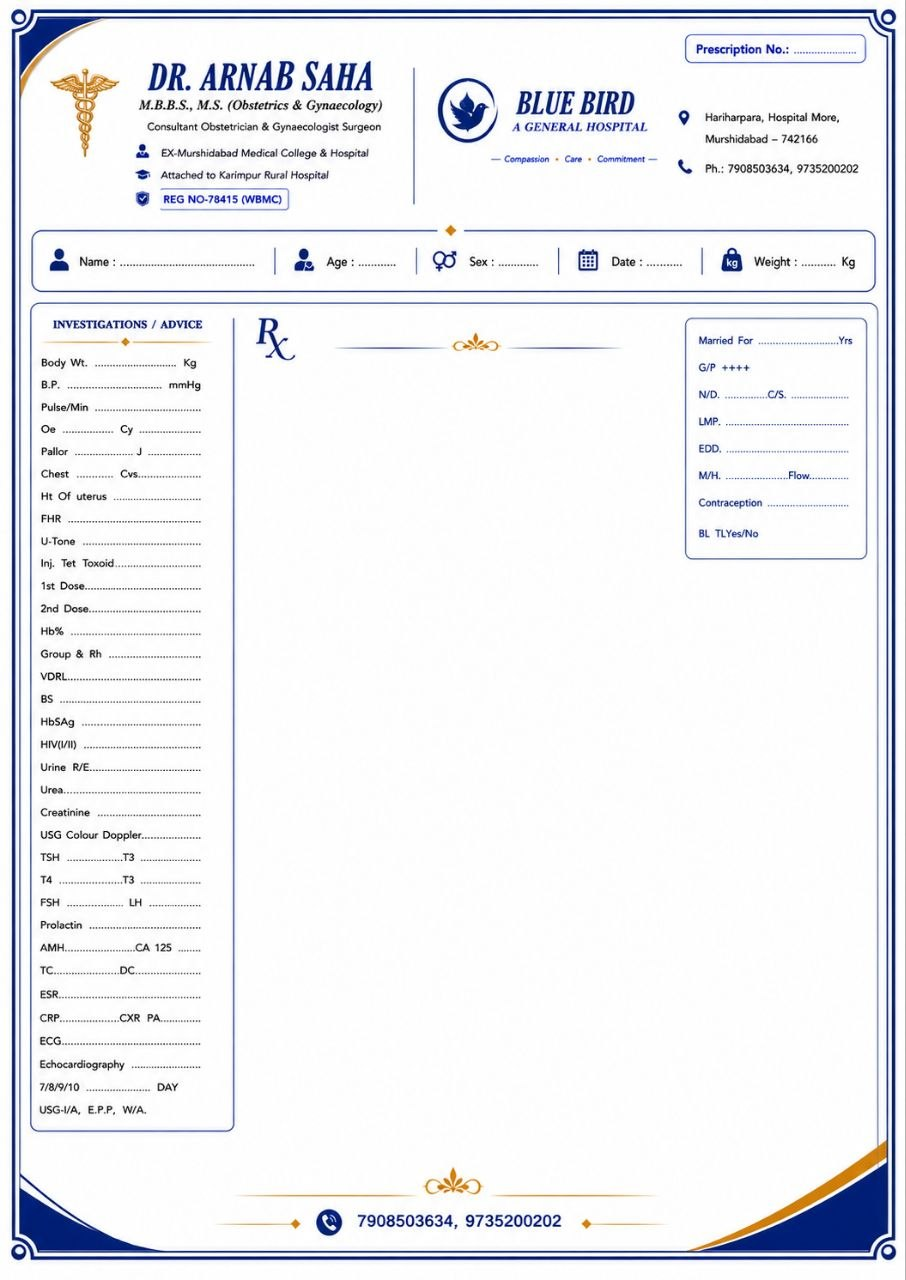
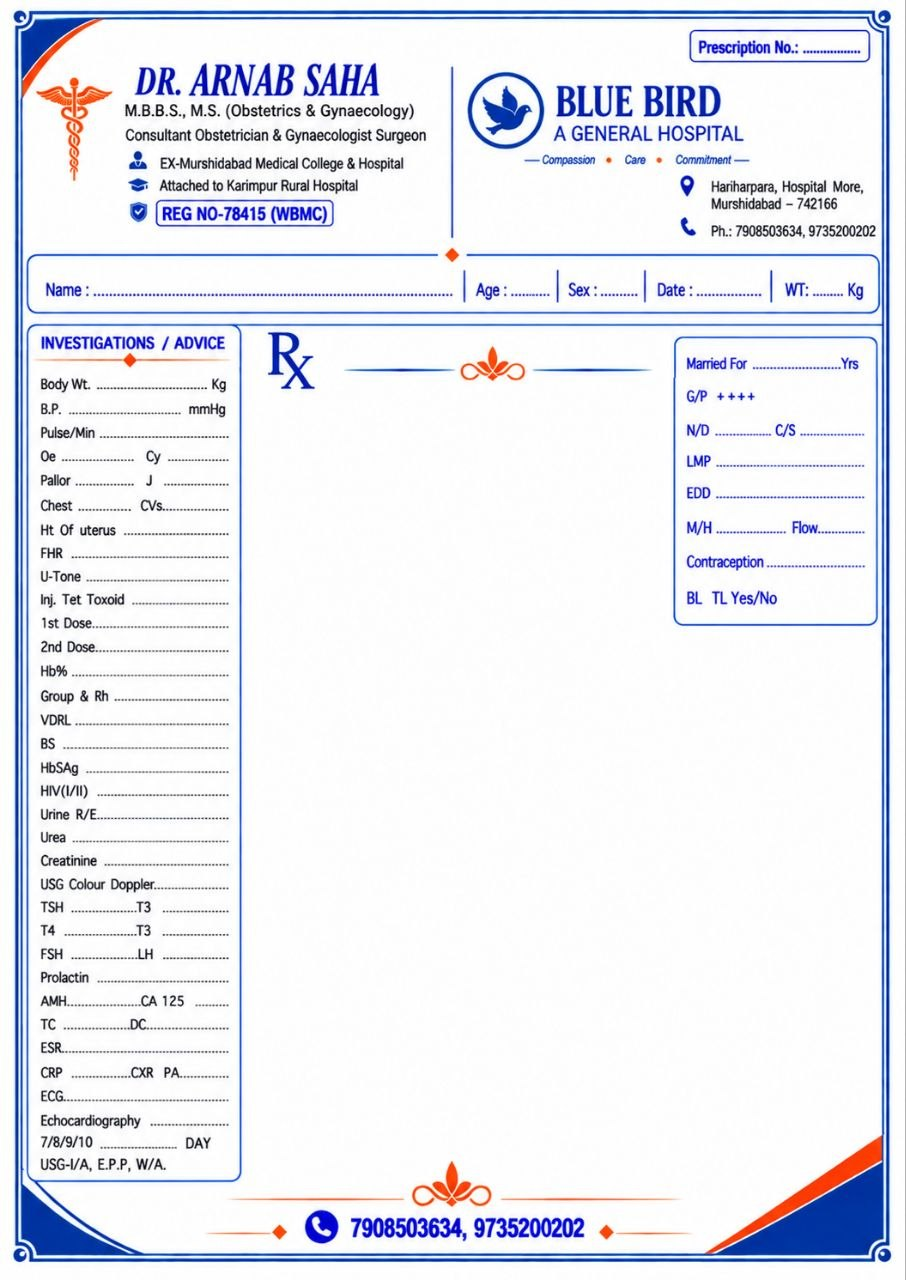
Update Arnab Saha prescription original for v1.1.41

Changed region(s): [[0.0, 0.0, 0.989, 1.0]]

diff --git a/SPEC.md b/SPEC.md
@@ -1,11 +1,16 @@
 # Blue Bird Maternal Tracker Specification
 
-Last updated: 2026-09-25
-Current app version: `1.1.40` / versionCode `48`
+Last updated: 2026-09-28
+Current app version: `1.1.41` / versionCode `50`
 Package: `com.maternaltracker.india`  
 Hospital scope: `BLUE BIRD A GENERAL HOSPITAL`
 
 ## 1. Product Scope
+
+### Prescription Update v1.1.41
+
+- Replaced Dr. Arnab Saha's prescription with the supplied 906 x 1280 original JPEG, without recompression or artwork changes. A4 portrait printing remains unchanged.
+- The cancelled UI refresh is not included. Version code 49 was used locally for the cancelled refresh and rollback; this release uses 50 to update those installations safely.
 
 ### Usability Update v1.1.40
 

diff --git a/CHANGELOG.md b/CHANGELOG.md
@@ -1,5 +1,11 @@
 # Changelog
 
+## v1.1.41 - 2026-09-28
+
+- Replaced Dr. Arnab Saha's prescription with the newly supplied original, preserving all text, colours and source resolution without recompression.
+- Retained A4 portrait printing and the existing UI and patient workflows. The cancelled UI refresh is not included.
+- Version code 50 supports upgrading the local rollback installation without clearing app data.
+
 ## v1.1.40 - 2026-09-25
 
 - Added Print Desk document search, favourites and recent print jobs with thumbnails, page counts and orientation.
